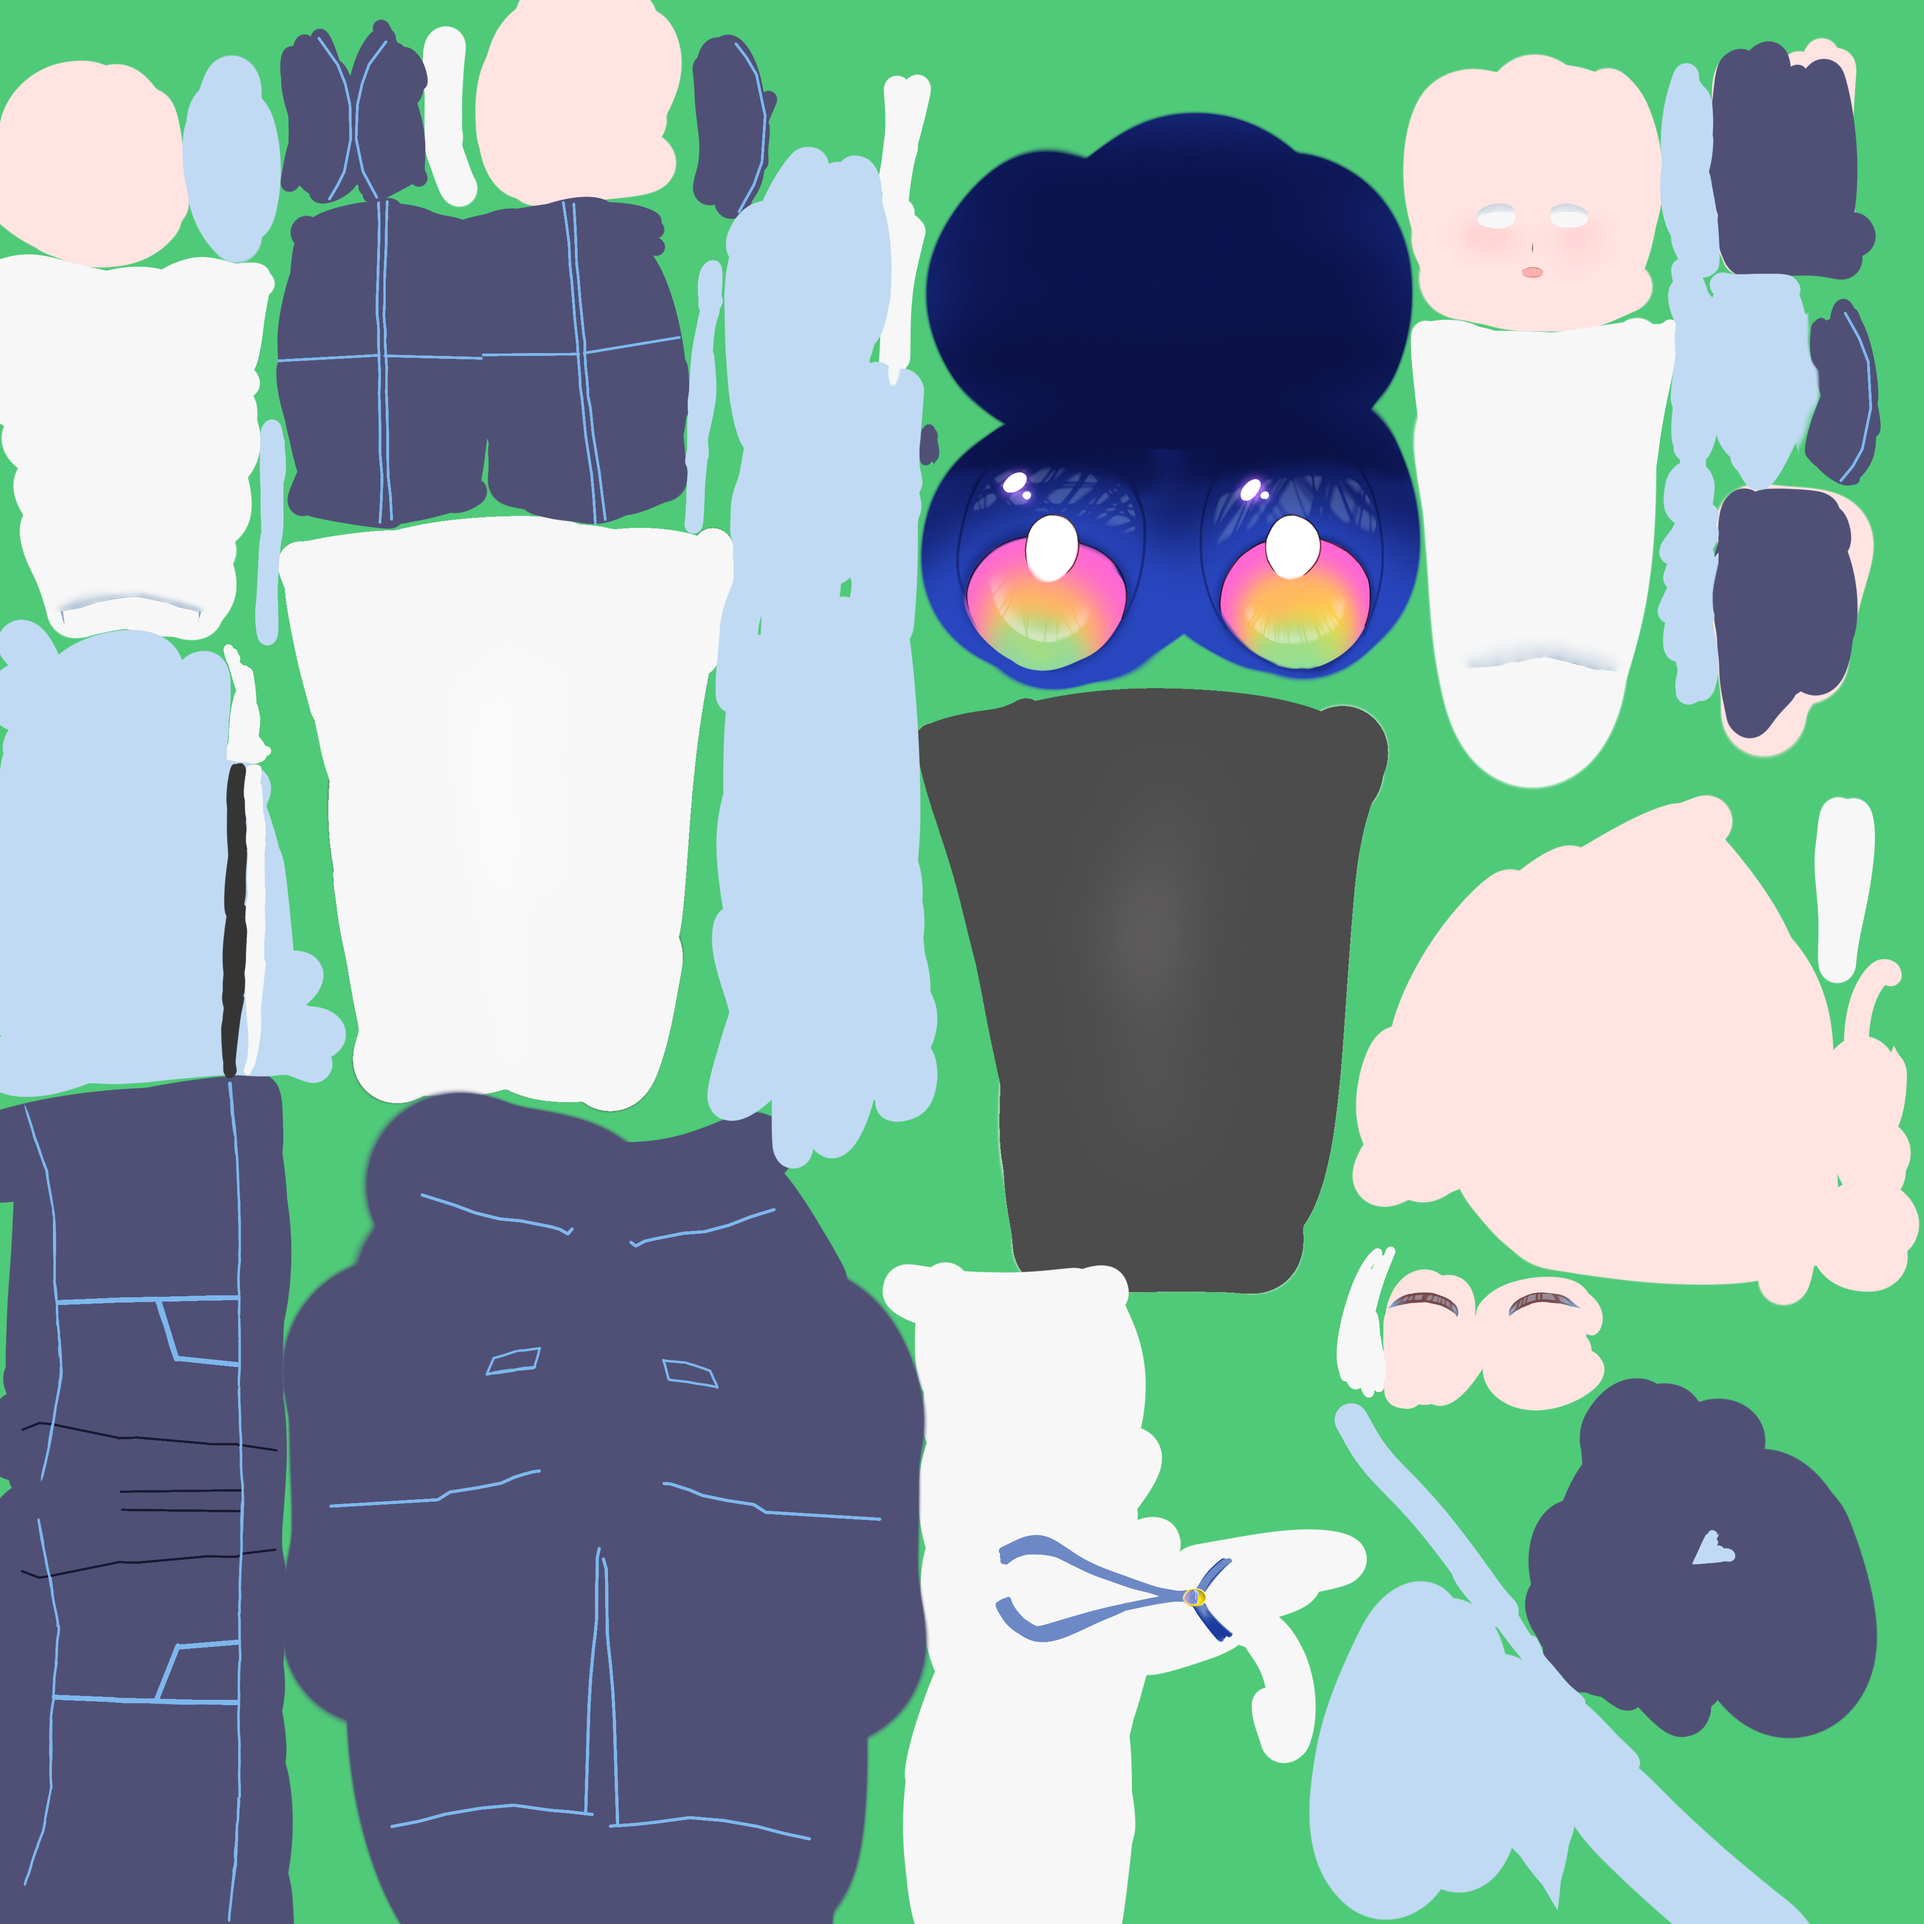
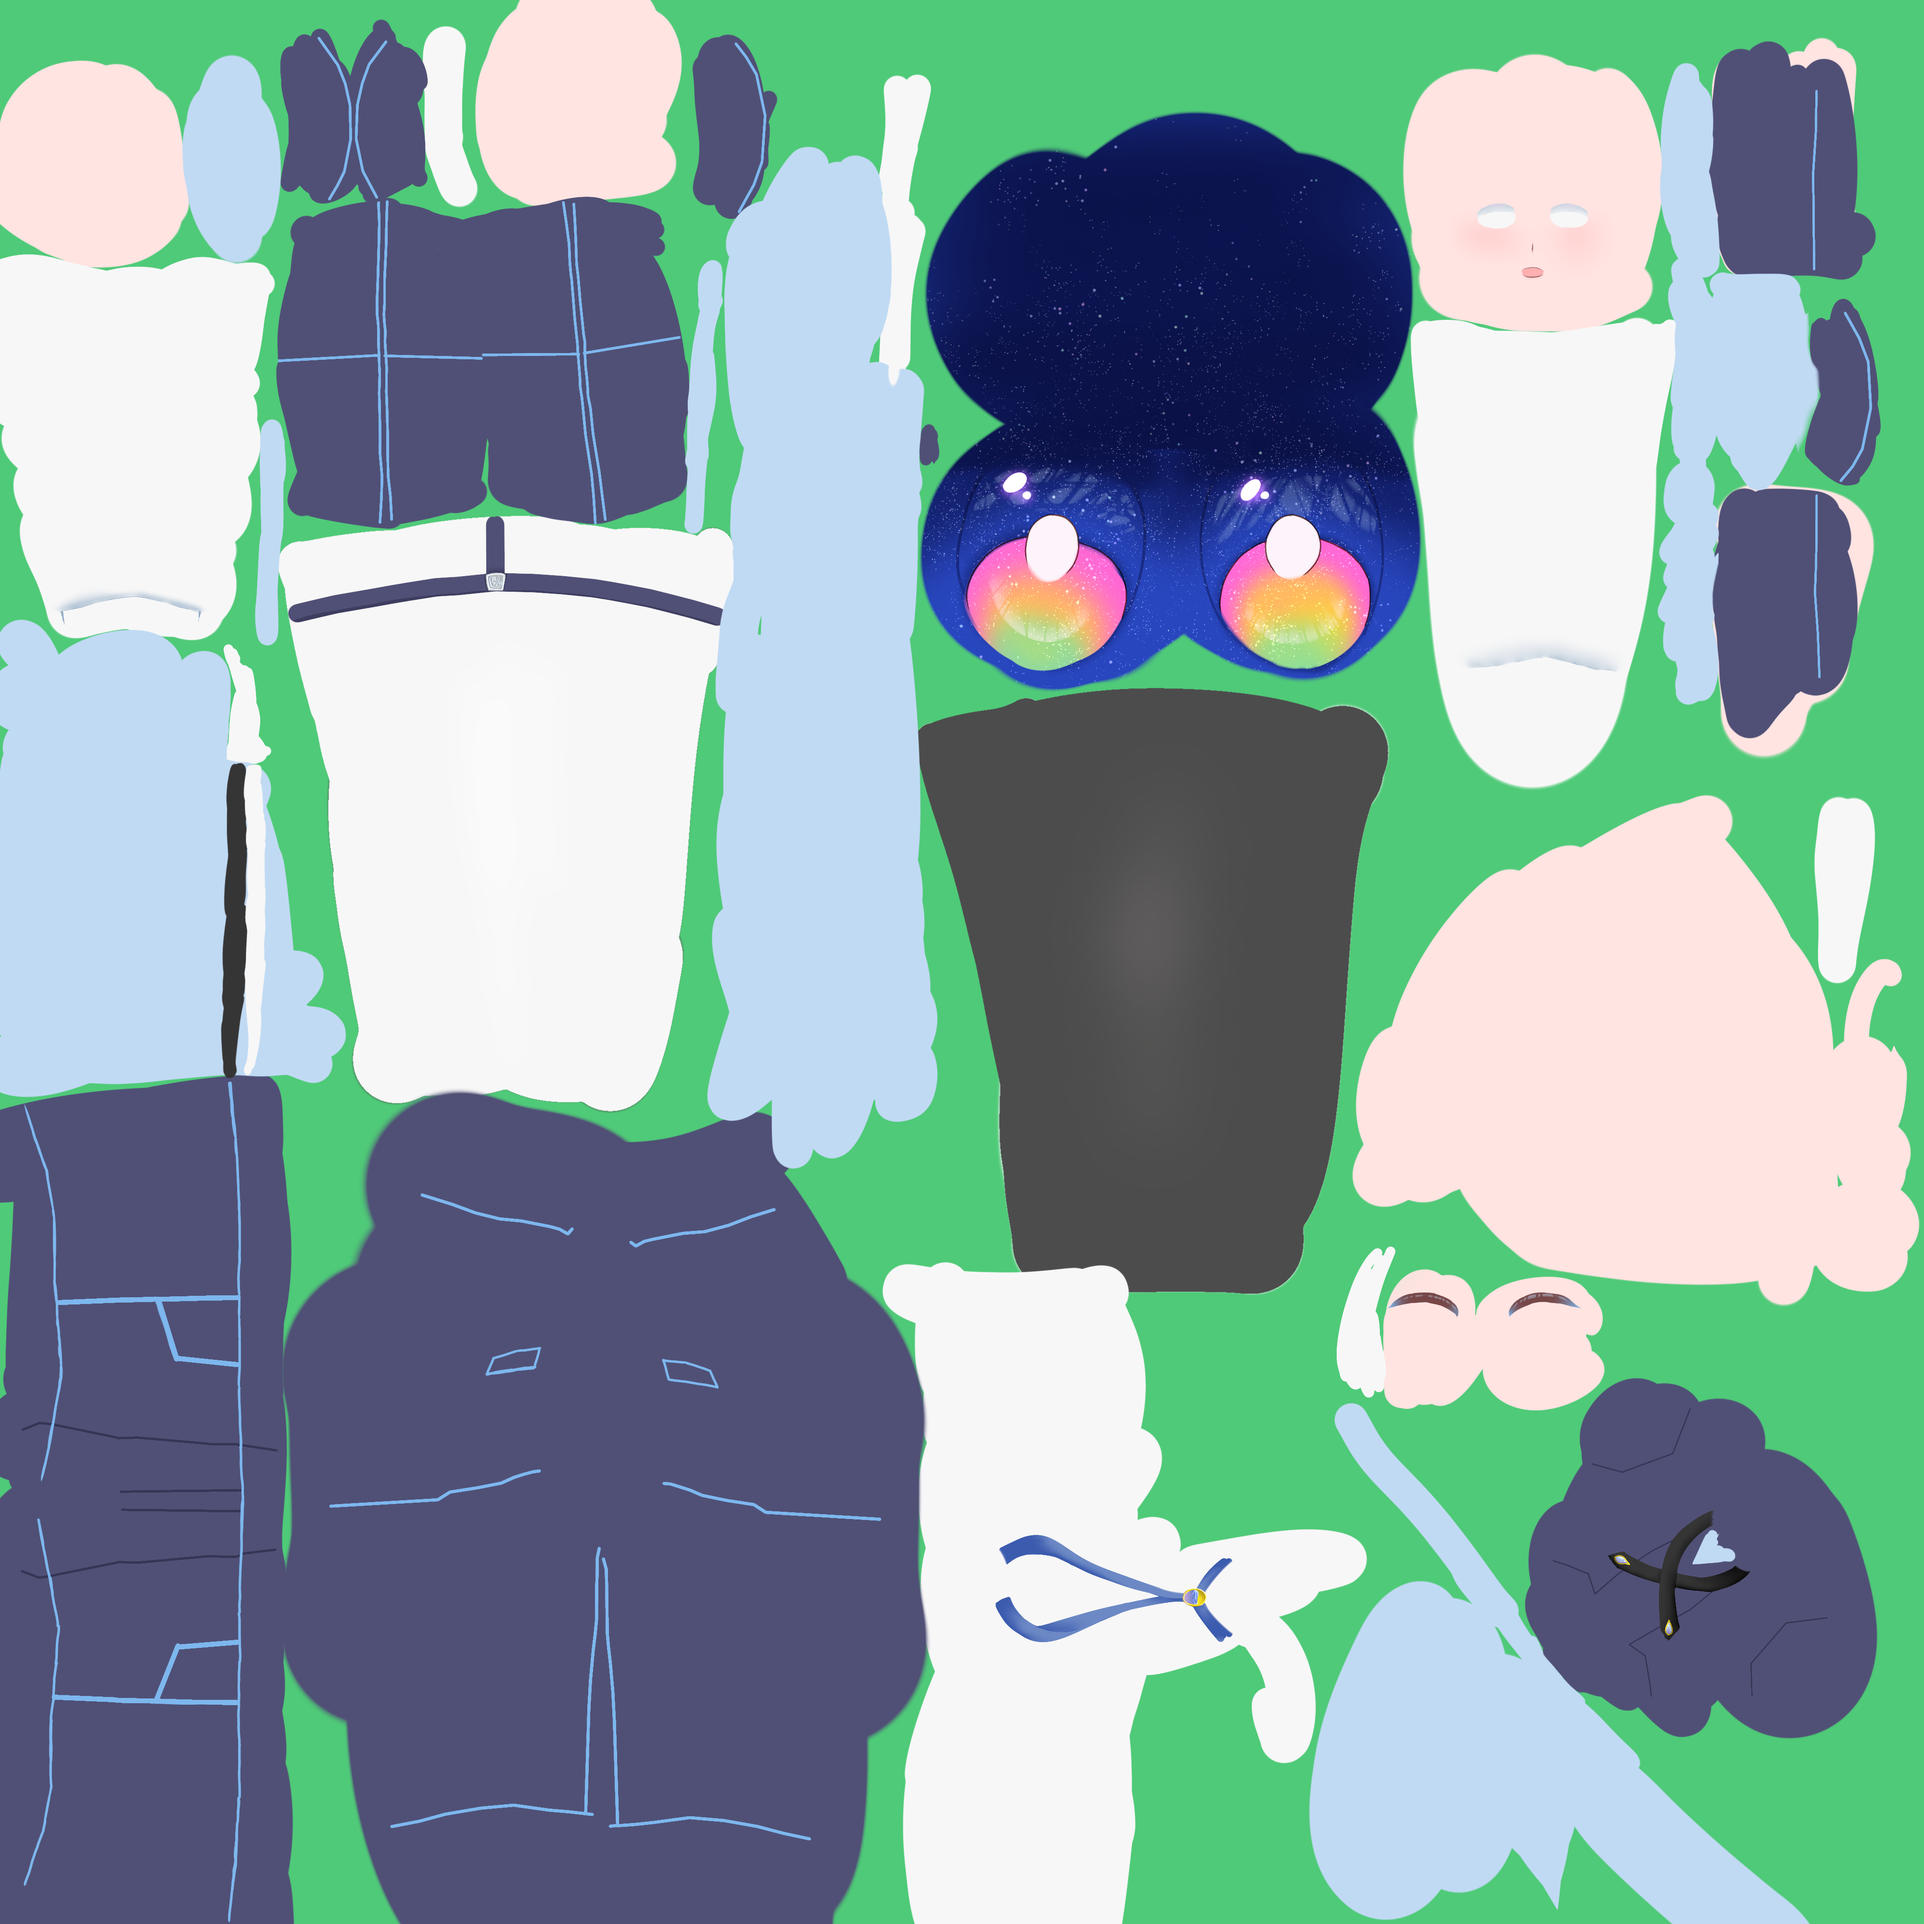
a

diff --git a/project/Engine/Texture/Mesh/Primitive/Primitive.cpp b/project/Engine/Texture/Mesh/Primitive/Primitive.cpp
@@ -14,7 +14,7 @@ constexpr float kPi = 3.14159265358979323846f;
 constexpr uint32_t kDefaultSlices = 32;
 constexpr uint32_t kDefaultStacks = 16;
 constexpr float kHalfSize = 0.5f;
-
+constexpr float kBandWidth = 0.2f;
 struct MeshData {
 	std::vector<VertexData> vertices;
 	std::vector<uint32_t> indices;
@@ -413,6 +413,41 @@ MeshData BuildBox() {
 
 	return mesh;
 }
+MeshData BuildBand(uint32_t segments) {
+	MeshData mesh;
+	const float length = kHalfSize * 2.0f;
+	const float halfWidth = kBandWidth * 0.5f;
+	mesh.vertices.reserve((segments + 1) * 2);
+	mesh.indices.reserve(segments * 6);
+
+	for (uint32_t i = 0; i <= segments; ++i) {
+		float t = static_cast<float>(i) / static_cast<float>(segments);
+		float x = -kHalfSize + length * t;
+		Vector3 normal = {0.0f, 0.0f, -1.0f};
+		mesh.vertices.push_back({
+		    {x, -halfWidth, 0.0f, 1.0f},
+            {t, 1.0f},
+            normal
+        });
+		mesh.vertices.push_back({
+		    {x, halfWidth, 0.0f, 1.0f},
+            {t, 0.0f},
+            normal
+        });
+	}
+
+	for (uint32_t i = 0; i < segments; ++i) {
+		uint32_t base = i * 2;
+		mesh.indices.push_back(base);
+		mesh.indices.push_back(base + 2);
+		mesh.indices.push_back(base + 1);
+		mesh.indices.push_back(base + 1);
+		mesh.indices.push_back(base + 2);
+		mesh.indices.push_back(base + 3);
+	}
+
+	return mesh;
+}
 } // namespace
 
 void Primitive::Initialize(PrimitiveName name) {
@@ -452,6 +487,9 @@ void Primitive::Initialize(PrimitiveName name) {
 		break;
 	case Primitive::Box:
 		mesh = BuildBox();
+		break;
+	case Primitive::Band:
+		mesh = BuildBand(kDefaultSlices);
 		break;
 	default:
 		mesh = BuildPlane();
@@ -531,6 +569,9 @@ void Primitive::Initialize(PrimitiveName name,const std::string& texturePath) {
 		break;
 	case Primitive::Box:
 		mesh = BuildBox();
+		break;
+	case Primitive::Band:
+		mesh = BuildBand(kDefaultSlices);
 		break;
 	default:
 		mesh = BuildPlane();
@@ -613,12 +654,8 @@ void Primitive::Draw() {
 
 	Object3dCommon::GetInstance()->GetDxCommon()->GetCommandList()->SetGraphicsRootConstantBufferView(0, materialResource_->GetGPUVirtualAddress());
 	Object3dCommon::GetInstance()->GetDxCommon()->GetCommandList()->SetGraphicsRootConstantBufferView(1, transformResource_->GetGPUVirtualAddress());
-	Object3dCommon::GetInstance()->GetDxCommon()->GetCommandList()->SetGraphicsRootConstantBufferView(3, Object3dCommon::GetInstance()->GetDirectionalLightResource()->GetGPUVirtualAddress());
 	Object3dCommon::GetInstance()->GetDxCommon()->GetCommandList()->SetGraphicsRootConstantBufferView(4, cameraResource_->GetGPUVirtualAddress());
-	Object3dCommon::GetInstance()->GetDxCommon()->GetCommandList()->SetGraphicsRootConstantBufferView(5, Object3dCommon::GetInstance()->GetPointLightCountResource()->GetGPUVirtualAddress());
-	Object3dCommon::GetInstance()->GetDxCommon()->GetCommandList()->SetGraphicsRootConstantBufferView(6, Object3dCommon::GetInstance()->GetSpotLightCountResource()->GetGPUVirtualAddress());
-	Object3dCommon::GetInstance()->GetDxCommon()->GetCommandList()->SetGraphicsRootConstantBufferView(7, Object3dCommon::GetInstance()->GetAreaLightCountResource()->GetGPUVirtualAddress());
-
+	
 	D3D12_GPU_DESCRIPTOR_HANDLE srvHandle = TextureManager::GetInstance()->GetSrvHandleGPU(textureIndex_);
 	Object3dCommon::GetInstance()->GetDxCommon()->GetCommandList()->SetGraphicsRootDescriptorTable(2, srvHandle);
 	TextureManager::GetInstance()->GetSrvManager()->SetGraphicsRootDescriptorTable(8, Object3dCommon::GetInstance()->GetPointLightSrvIndex());

diff --git a/project/Engine/Texture/Mesh/Primitive/Primitive.h b/project/Engine/Texture/Mesh/Primitive/Primitive.h
@@ -25,6 +25,7 @@ public:
 		Line,
 		Triangle,
 		Box,
+		Band,
 	};
 
 private:
